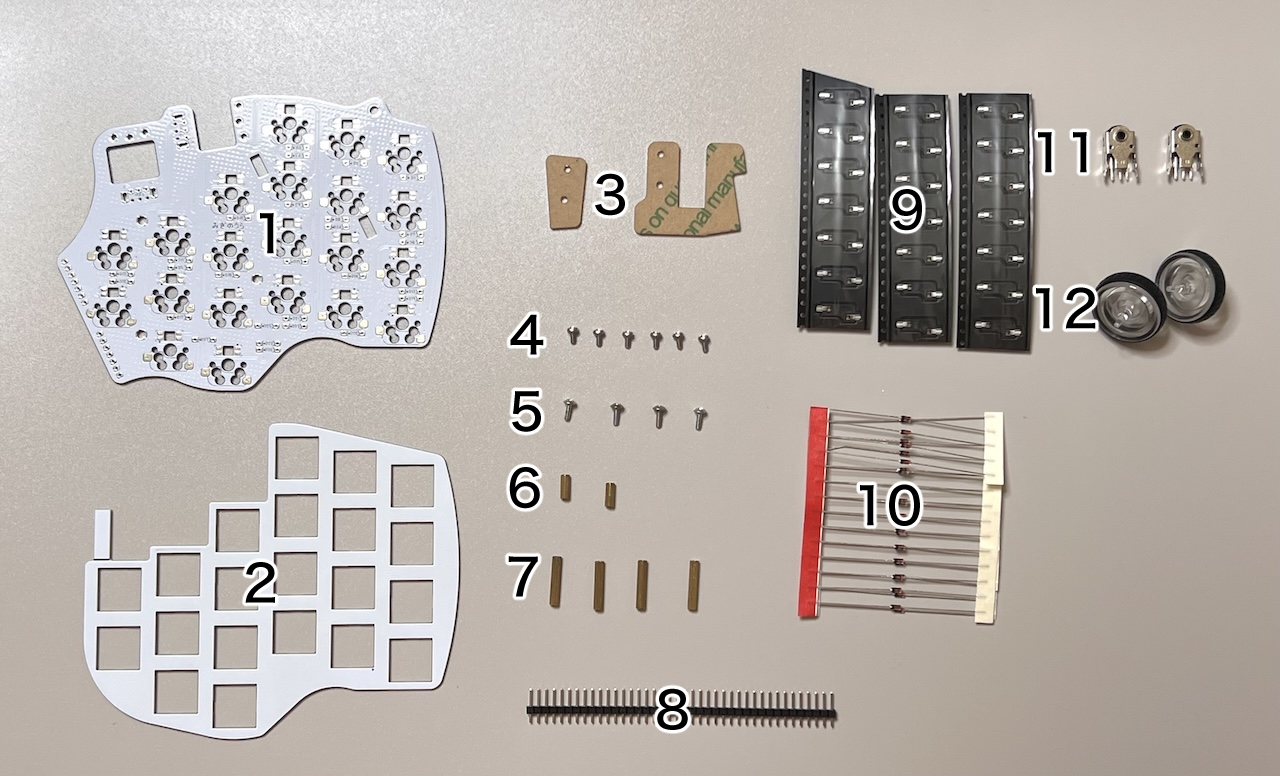
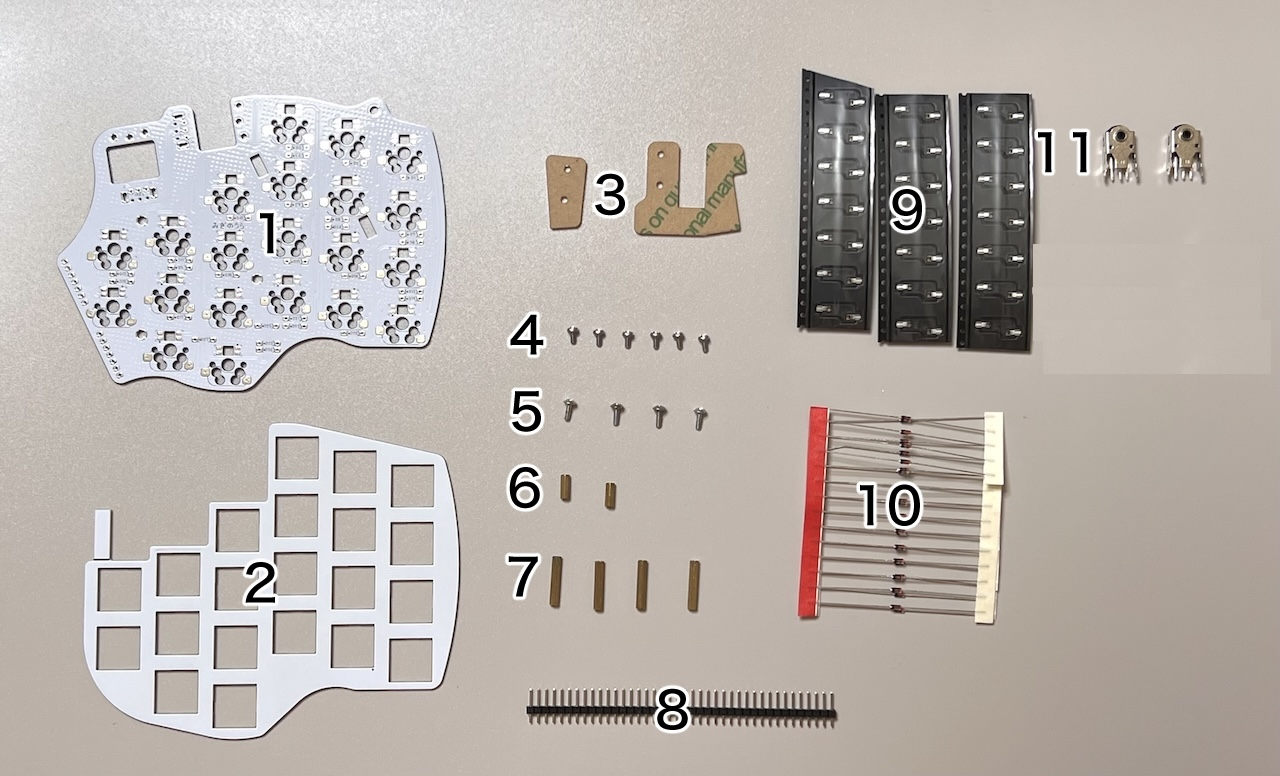
upd

Changed region(s): [[0.7812, 0.3093, 0.9688, 0.4639]]

diff --git a/rightside/4_TOP_WHEEL.md b/rightside/4_TOP_WHEEL.md
@@ -26,7 +26,9 @@
 |9|MX hotswap sockets|21||
 |10|Diodes|27||
 |11|Wheel encoders|2||
-|12|Wheels|2||
+
+The following 3D printed parts are also used.
+![](../img/4_2_wheeltop_r/IMG_3343.jpg)
 
 ### Additional Required
 |Types|quantities|
@@ -67,6 +69,12 @@ Thread the M3 washers onto 4 M3 screws.
 Solder pin sockets on the bottom.
 ![](../img/4_2_wheeltop_r/4_2_11_base.jpg)
 ![](../img/4_2_wheeltop_r/4_2_12_keyswitches.jpg)
+Combine the wheel parts. Be careful with the direction of the axis of the thinner one.
+![](../img/4_2_wheeltop_r/IMG_3348.jpg)
+It may require a little force. The medium axis can come from either direction.
+![](../img/4_2_wheeltop_r/IMG_3351.jpg)
+
+
 ![](../img/4_2_wheeltop_r/4_2_13_wheels.jpg)
 
 5. [ADD Unit](../rightside/5_ADD.md)

diff --git a/leftside/4_TOP_WHEEL.md b/leftside/4_TOP_WHEEL.md
@@ -25,7 +25,9 @@
 |9|MX hotswap sockets|21||
 |10|Diodes|27||
 |11|Wheel encoders|2||
-|12|Wheels|2||
+
+The following 3D printed parts are also used.
+![](../img/4_2_wheeltop_l/IMG_3343.jpg)
 
 ### Additional Required
 |Types|quantities|
@@ -65,6 +67,10 @@ Thread the M3 washers onto 4 M3 screws.
 Solder pin sockets on the bottom.
 ![](../img/4_2_wheeltop_l/4_2_11_base.jpg)
 ![](../img/4_2_wheeltop_l/4_2_12_keyswitches.jpg)
+Combine the wheel parts. Be careful with the direction of the axis of the thinner one.
+![](../img/4_2_wheeltop_l/IMG_3348.jpg)
+It may require a little force. The medium axis can come from either direction.
+![](../img/4_2_wheeltop_l/IMG_3351.jpg)
 ![](../img/4_2_wheeltop_l/4_2_13_wheels.jpg)
 
 
